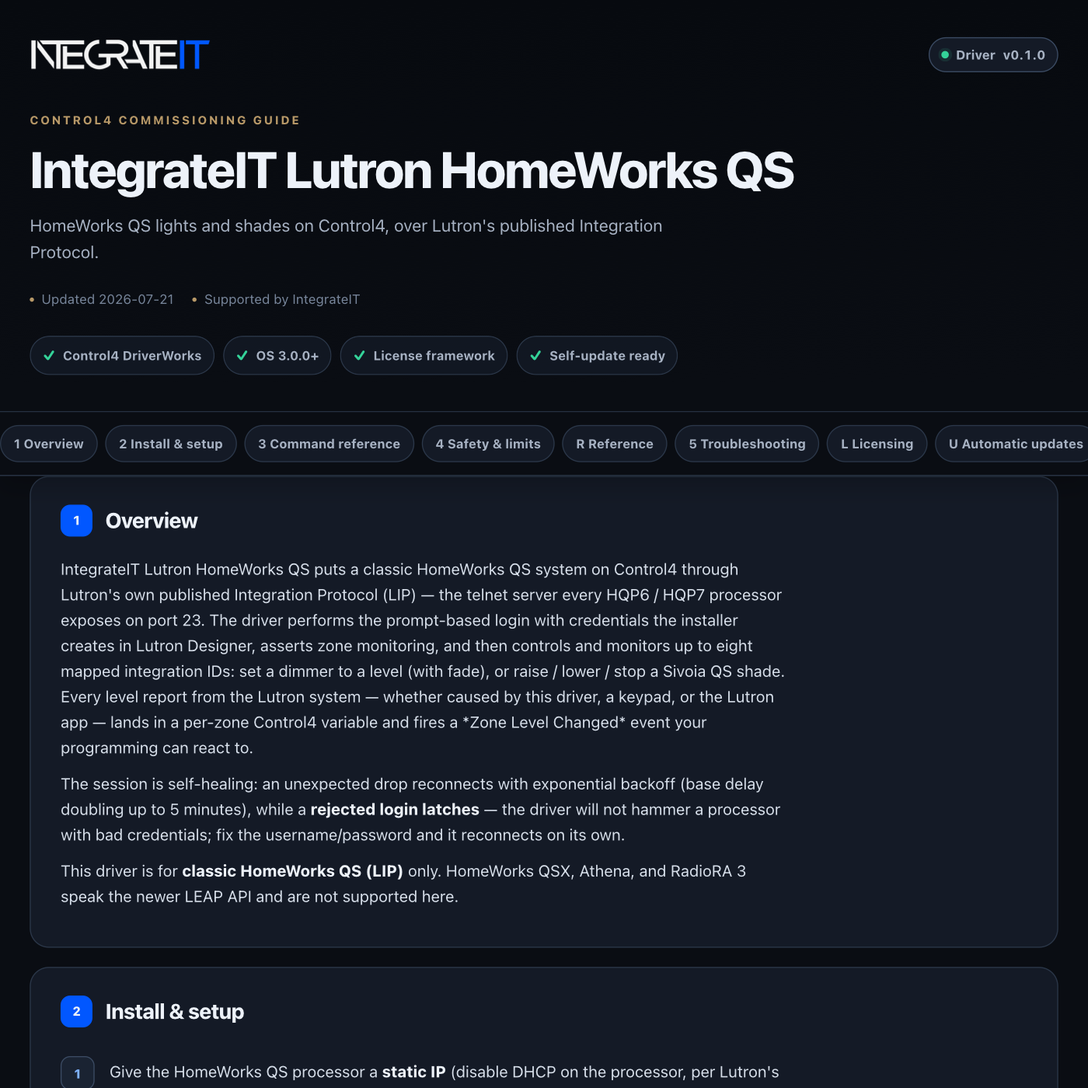
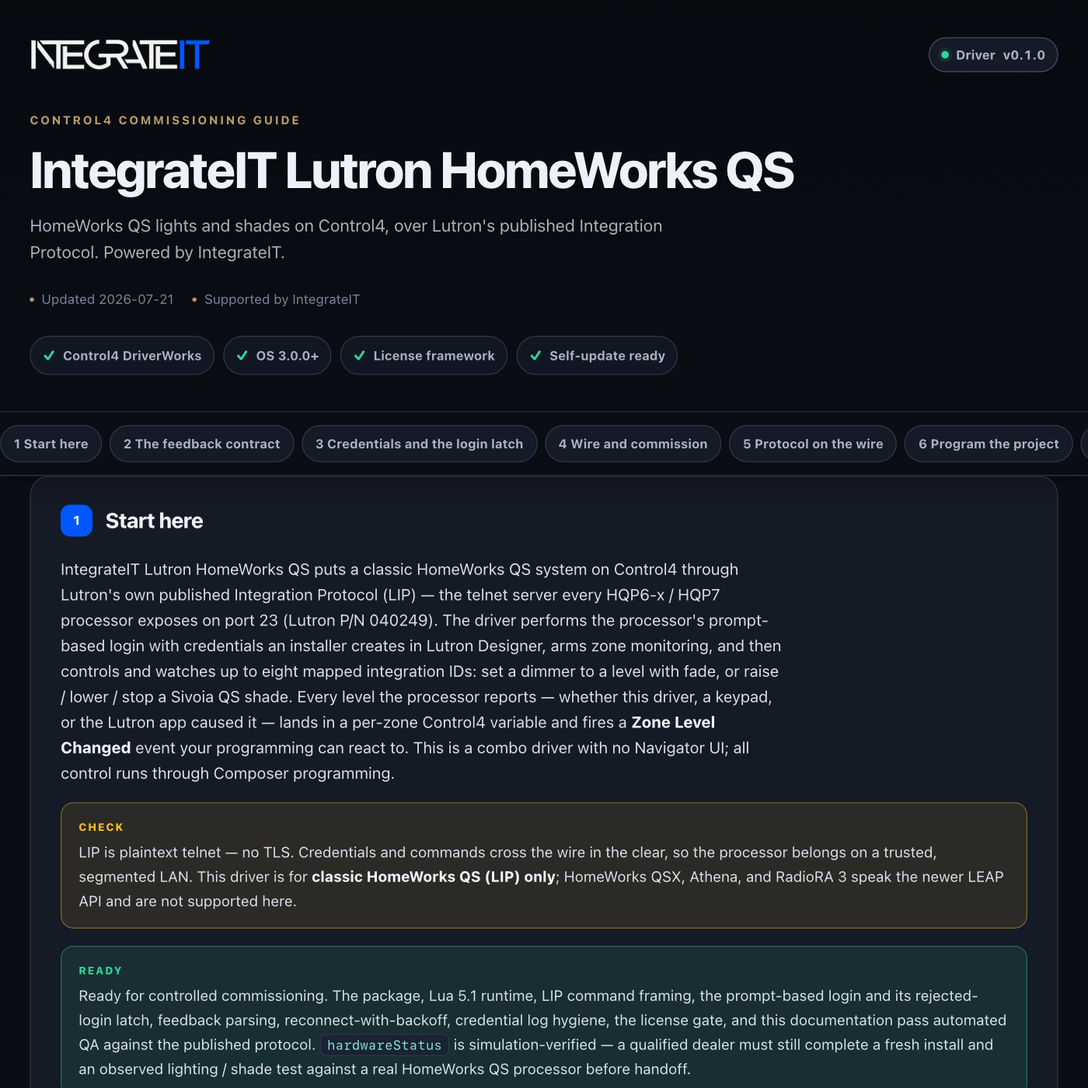
control4: publish driver channel (integrateit_lutron_homeworks 0.1.1)

diff --git a/control4/integrateit_lutron_homeworks/documentation.html b/control4/integrateit_lutron_homeworks/documentation.html
@@ -179,13 +179,13 @@ td code{white-space:normal}
     <div class="wrap">
       <div class="brandbar">
[1 lines of base64/hex data omitted]
-        <span class="version"><span class="word">Driver</span> v0.1.0</span>
+        <span class="version"><span class="word">Driver</span> v0.1.1</span>
       </div>
       <p class="eyebrow">Control4 commissioning guide</p>
       <h1>IntegrateIT Lutron HomeWorks QS</h1>
-      <p class="sub">HomeWorks QS lights and shades on Control4, over Lutron's published Integration Protocol.</p>
+      <p class="sub">HomeWorks QS lights and shades on Control4, over Lutron's published Integration Protocol. Powered by IntegrateIT.</p>
       <div class="meta">
-        <span>Updated 2026-07-21</span>
+        <span>Updated 2026-07-26</span>
         <span>Supported by IntegrateIT</span>
       </div>
       <div class="readiness" aria-label="Driver capabilities">
@@ -198,57 +198,147 @@ td code{white-space:normal}
   </header>
 
   <div class="toc-wrap">
-    <nav class="toc wrap" aria-label="Documentation sections"><a href="#overview">1 Overview</a><a href="#install">2 Install &amp; setup</a><a href="#commands">3 Command reference</a><a href="#safety">4 Safety &amp; limits</a><a href="#reference">R Reference</a><a href="#troubleshooting">5 Troubleshooting</a><a href="#licensing">L Licensing</a><a href="#updates">U Automatic updates</a><a href="#changelog">V Version history</a></nav>
+    <nav class="toc wrap" aria-label="Documentation sections"><a href="#overview">1 Start here</a><a href="#feedback">2 The feedback contract</a><a href="#login">3 Credentials and the login latch</a><a href="#setup">4 Wire and commission</a><a href="#protocol">5 Protocol on the wire</a><a href="#programming">6 Program the project</a><a href="#status">7 Read status at a glance</a><a href="#troubleshooting">8 Troubleshoot methodically</a><a href="#trust">9 Ownership, privacy, and licensing</a><a href="#reference">R Reference</a><a href="#licensing">L Licensing</a><a href="#updates">U Automatic updates</a><a href="#changelog">V Version history</a></nav>
   </div>
 
   <main class="wrap">
     <section class="card" id="overview" data-card="overview">
-  <h2><span class="n">1</span> Overview</h2>
-  <p>IntegrateIT Lutron HomeWorks QS puts a classic HomeWorks QS system on Control4 through Lutron's own published Integration Protocol (LIP) — the telnet server every HQP6 / HQP7 processor exposes on port 23. The driver performs the prompt-based login with credentials the installer creates in Lutron Designer, asserts zone monitoring, and then controls and monitors up to eight mapped integration IDs: set a dimmer to a level (with fade), or raise / lower / stop a Sivoia QS shade. Every level report from the Lutron system — whether caused by this driver, a keypad, or the Lutron app — lands in a per-zone Control4 variable and fires a *Zone Level Changed* event your programming can react to.</p>
-  <p>The session is self-healing: an unexpected drop reconnects with exponential backoff (base delay doubling up to 5 minutes), while a <b>rejected login latches</b> — the driver will not hammer a processor with bad credentials; fix the username/password and it reconnects on its own.</p>
-  <p>This driver is for <b>classic HomeWorks QS (LIP)</b> only. HomeWorks QSX, Athena, and RadioRA 3 speak the newer LEAP API and are not supported here.</p>
-</section>
-
-<section class="card" id="install" data-card="install">
-  <h2><span class="n">2</span> Install &amp; setup</h2>
-  <ol class="steps">
-    <li>Give the HomeWorks QS processor a <b>static IP</b> (disable DHCP on the processor, per Lutron's own integration guidance).</li>
-    <li>In <b>Lutron Designer</b>: *Tools &gt; Configure Integration &gt; Telnet Logins* — create a login for this driver. Then open the <b>Integration Report</b> and note the numeric <b>Integration ID</b> of each output (dimmer zone or shade) you want on Control4.</li>
-    <li>Add this driver to the project. Set <code>Processor IP Address</code>, <code>Telnet Username</code>, and <code>Telnet Password</code> (<code>Telnet Port</code> stays 23).</li>
-    <li>Map up to eight outputs: <code>Zone N Integration ID</code> (from the Integration Report) and an optional <code>Zone N Label</code>.</li>
-    <li>Watch <code>Connection Status</code> reach <b>Online (logged in)</b> — the driver queries every mapped zone at login, so <code>Zone Levels</code> and the <code>ZONE_N_LEVEL</code> variables go live immediately.</li>
-    <li>In Programming, drive zones with <b>Set Zone Level</b> (params <code>ZONE</code> 1-8, <code>LEVEL</code> 0-100), <b>Raise Zone</b>, <b>Lower Zone</b>, <b>Stop Zone</b> (param <code>ZONE</code>), and react to *Zone Level Changed* using <code>LAST_ZONE</code> / <code>LAST_ZONE_LEVEL</code>.</li>
-    <li>Optionally enter a <code>License Key</code> (see Licensing) — the driver runs in Lenient mode without one.</li>
-  </ol>
-</section>
-
-<section class="card" id="commands" data-card="commands">
-  <h2><span class="n">3</span> Command reference</h2>
-  <table>
-    <tr><th>Command</th><th>What it does</th></tr>
-    <tr><td>Set Zone Level</td><td><code>#OUTPUT,&lt;id&gt;,1,&lt;level&gt;,&lt;fade&gt;</code> — dimmer level or shade lift %, 0-100. Fade comes from <code>Dimmer Fade (s)</code> and is ignored by shades.</td></tr>
-    <tr><td>Raise Zone / Lower Zone / Stop Zone</td><td>LIP actions 2 / 3 / 4 — start motion, then stop it where it is. The shade-natural verbs; they also ramp dimmers.</td></tr>
-    <tr><td>Query Zone Level</td><td><code>?OUTPUT,&lt;id&gt;,1</code> — the reply updates the zone variable like any monitored report.</td></tr>
-    <tr><td>Send LIP Command</td><td>One raw LIP line for anything this driver doesn't wrap yet (scenes via <code>#AREA</code>, shade groups via <code>#SHADEGRP</code>, …). Must start with <code>#</code> or <code>?</code>; system-level verbs are refused.</td></tr>
-    <tr><td>Connect / Disconnect / Query All Zones / Print Configuration</td><td>Session management from the Actions tab.</td></tr>
-  </table>
-  <p>Commands issued while the session is still logging in are queued (bounded) and flush the moment login completes.</p>
-  <p><b>Events:</b> *Connected*, *Disconnected*, *Login Failed*, *Connection Failed*, *Zone Level Changed*, *Protocol Error*. <b>Variables:</b> <code>DEVICE_ONLINE</code>, <code>ZONE_1_LEVEL</code> … <code>ZONE_8_LEVEL</code> (−1 until known), <code>LAST_ZONE</code>, <code>LAST_ZONE_LEVEL</code>.</p>
-</section>
-
-<section class="card" id="safety" data-card="safety">
-  <h2><span class="n">4</span> Safety &amp; limits</h2>
+  <h2><span class="n">1</span> Start here</h2>
+  <p>IntegrateIT Lutron HomeWorks QS puts a classic HomeWorks QS system on Control4 through Lutron's own published Integration Protocol (LIP) — the telnet server every HQP6-x / HQP7 processor exposes on port 23 (Lutron P/N 040249). The driver performs the processor's prompt-based login with credentials an installer creates in Lutron Designer, arms zone monitoring, and then controls and watches up to eight mapped integration IDs: set a dimmer to a level with fade, or raise / lower / stop a Sivoia QS shade. Every level the processor reports — whether this driver, a keypad, or the Lutron app caused it — lands in a per-zone Control4 variable and fires a <b>Zone Level Changed</b> event your programming can react to. This is a combo driver with no Navigator UI; all control runs through Composer programming.</p>
+  <div class="note warn">LIP is plaintext telnet — no TLS. Credentials and commands cross the wire in the clear, so the processor belongs on a trusted, segmented LAN. This driver is for <b>classic HomeWorks QS (LIP) only</b>; HomeWorks QSX, Athena, and RadioRA 3 speak the newer LEAP API and are not supported here.</div>
+  <div class="note good">Ready for controlled commissioning. The package, Lua 5.1 runtime, LIP command framing, the prompt-based login and its rejected-login latch, feedback parsing, reconnect-with-backoff, credential log hygiene, the license gate, and this documentation pass automated QA against the published protocol. <code>hardwareStatus</code> is simulation-verified — a qualified dealer must still complete a fresh install and an observed lighting / shade test against a real HomeWorks QS processor before handoff.</div>
+  <p><b>What you get</b></p>
   <ul>
-    <li><b>Telnet is plaintext.</b> LIP has no TLS — credentials and commands cross the wire in the clear. Keep the processor on a trusted LAN segment; the driver refuses URLs and IPv6 literals as targets.</li>
-    <li><b>Credentials stay out of the log.</b> The password is never printed, never stored in a variable, and never appears in debug output — even with <code>Debug Mode = Print</code>.</li>
-    <li><b>A failed login latches.</b> After a re-prompt or an explicit rejection the driver stops trying, fires *Login Failed*, and waits for you to change the credentials (or press <b>Connect</b>). No lockout-inducing retry storms.</li>
-    <li><b>System-level LIP verbs are blocked</b> on the raw escape hatch: <code>#ETHERNET</code>, <code>#RESET</code>, <code>#PASSWD</code>, <code>#INTEGRATIONID</code>, <code>#MONITORING</code> cannot be sent from programming.</li>
-    <li><b>Shades run at fixed speeds.</b> Lutron documents fade/delay as having no effect on shades — <code>Dimmer Fade (s)</code> only shapes dimmers.</li>
-    <li><b>Level reports are rounded</b> to whole percent (LIP reports like <code>75.00</code>).</li>
+    <li>Two-way control of up to eight OUTPUT integration IDs: dimmer level 0-100 with optional fade, and raise / lower / stop for Sivoia QS shades</li>
+    <li>Live level feedback via zone monitoring: per-zone <code>ZONE_N_LEVEL</code> variables, a rolled-up <code>Zone Levels</code> readout, and a <b>Zone Level Changed</b> event on every reported change</li>
+    <li>Prompt-based telnet login with installer-provisioned credentials; a rejected login <b>latches</b> instead of hammering the processor</li>
+    <li>Reconnect with exponential backoff, a bounded pre-login command queue, and connect / login watchdogs</li>
+    <li>A guarded raw-LIP escape hatch for scenes, shade groups, and anything not yet wrapped — system-level verbs refused</li>
+    <li><code>~ERROR</code> replies decoded into a <b>Protocol Error</b> event with the documented reason</li>
+    <li>Passwords never written to the Control4 log, even in Debug Mode</li>
+    <li>MAC-locked IntegrateIT licensing with Lenient or Strict enforcement</li>
   </ul>
+</section>
+
+<section class="card" id="feedback" data-card="feedback">
+  <h2><span class="n">2</span> The feedback contract</h2>
+  <p>This driver never invents a level. Every zone value comes from what the processor actually reports:</p>
+  <ul>
+    <li><code>~OUTPUT,&lt;id&gt;,1,&lt;level&gt;</code> — an output level report, solicited (a query) or pushed (monitoring). The driver rounds it to whole percent (<code>75.00</code> → <code>75</code>), clamps it to 0-100, stores it against the mapped slot, and updates <code>ZONE_N_LEVEL</code> plus the <code>Zone Levels</code> readout.</li>
+    <li>A level that actually differs from the last one sets <code>LAST_ZONE</code> / <code>LAST_ZONE_LEVEL</code> and fires <b>Zone Level Changed</b>. An identical repeat re-writes the same value, leaves <code>LAST_ZONE</code> / <code>LAST_ZONE_LEVEL</code> untouched, and fires nothing — a repeat is not a change.</li>
+    <li>Until a zone has reported, its <code>ZONE_N_LEVEL</code> is <code>-1</code> (unknown) and its entry in <code>Zone Levels</code> shows <code>—</code>. Nothing is assumed at boot; nothing that happened while the driver was offline is observable.</li>
+    <li>At login the driver asserts zone monitoring (<code>#MONITORING,5,1</code>) and then queries every mapped zone (<code>?OUTPUT,&lt;id&gt;,1</code>) so the variables are honest from the first moment. A reconnect re-arms and re-primes the same way.</li>
+    <li>Remapping a <b>Zone N Integration ID</b> forgets that slot's old level (back to <code>-1</code>) and, if logged in, immediately re-queries the new ID — the old device's level means nothing on the new one.</li>
+  </ul>
+  <p>Reports for an integration ID that no slot is mapped to are ignored. This is a level-reporting protocol, not a scene-state one: the driver knows output levels, not which keypad button lit.</p>
+</section>
+
+<section class="card" id="login" data-card="login">
+  <h2><span class="n">3</span> Credentials and the login latch</h2>
+  <p>The processor speaks first. It prints <code>login:</code> (with no line terminator), then <code>password:</code> when a passphrase is set, then a session prompt (<code>QNET&gt;</code>, <code>QSE&gt;</code>, …) once it accepts you. The driver answers each prompt from the <b>Telnet Username</b> and <b>Telnet Password</b> an installer created in Lutron Designer, and treats the session prompt as proof of login.</p>
+  <ul>
+    <li><b>Credentials never reach the log.</b> The username and password go out through a send path that logs nothing about the payload — not its value, not its length. Even with <b>Debug Mode</b> = <code>Print</code>, the wire trace shows <code>TX (credential)</code>, never the secret. <b>Print Configuration</b> reports only whether a password is set, never the password itself.</li>
+    <li><b>A rejected login latches.</b> If the processor re-prompts <code>login:</code> or <code>password:</code> after the driver already answered — or replies "bad login" / "login incorrect" / "access denied", or there is no <b>Telnet Username</b> to offer — the driver fires <b>Login Failed</b>, sets <code>Connection Status</code> to "Login failed — check Telnet Username / Password", and stops. It does not resend a known-bad password and does not retry on a timer — no credential hammering, so this driver can never be what locks a Lutron telnet account out.</li>
+    <li><b>The latch clears on your action, not on its own.</b> Editing <b>Processor IP Address</b>, <b>Telnet Port</b>, <b>Telnet Username</b>, or <b>Telnet Password</b> clears the latch (and resets the backoff) and reconnects; pressing <b>Connect</b> clears it too.</li>
+  </ul>
+</section>
+
+<section class="card" id="setup" data-card="setup">
+  <h2><span class="n">4</span> Wire and commission</h2>
+  <ol class="steps">
+    <li>Give the HomeWorks QS processor a <b>static IP</b> (disable DHCP on the processor, per Lutron's integration guidance), reachable from the controller's LAN.</li>
+    <li>In <b>Lutron Designer</b>: *Tools &gt; Configure Integration &gt; Telnet Logins* — create a login for this driver. Then open the <b>Integration Report</b> and note the numeric <b>Integration ID</b> of each OUTPUT (dimmer or shade) you want on Control4.</li>
+    <li>Add <b>IntegrateIT Lutron HomeWorks QS</b> to the project. Set <b>Processor IP Address</b>, <b>Telnet Username</b>, and <b>Telnet Password</b>. Leave <b>Telnet Port</b> at 23 unless a gateway remaps it.</li>
+    <li>Map up to eight outputs: <b>Zone N Integration ID</b> (from the Integration Report) plus an optional <b>Zone N Label</b>. Blank slots are ignored.</li>
+    <li>Watch <b>Connection Status</b> walk from "Connecting to …" through "Logging in…" to <b>Online (logged in)</b>. The driver arms zone monitoring and queries every mapped zone at login, so <code>Zone Levels</code> and the <code>ZONE_N_LEVEL</code> variables fill in within moments.</li>
+    <li>From the <b>Actions</b> tab run <b>Query All Zones</b> and watch <code>Zone Levels</code> populate. Then, from <b>Programming</b>, execute <b>Set Zone Level</b> (ZONE 1, LEVEL 50) and <b>Raise Zone</b> / <b>Stop Zone</b> against a mapped slot — these are programming commands, not Actions-tab buttons. The reported level moving in <code>Zone Levels</code> is the proof that the login, zone monitoring, and integration IDs are all correct.</li>
+    <li>Optionally enter a <b>License Key</b> — the driver runs in Lenient mode without one (see licensing below).</li>
+  </ol>
+  <div class="note">Integration IDs and telnet logins live in the Lutron system, not in this driver — it discovers neither. Copy the IDs from the Integration Report and create the login in Designer.</div>
+</section>
+
+<section class="card" id="protocol" data-card="protocol">
+  <h2><span class="n">5</span> Protocol on the wire</h2>
+  <p>Every line is plain ASCII, comma-delimited, <code>&lt;CR&gt;&lt;LF&gt;</code>-terminated. Examples exactly as this driver transmits and parses them:</p>
+  <table>
+    <tr><th>Wire line</th><th>Meaning</th></tr>
+    <tr><td><code>#OUTPUT,6,1,75,2</code></td><td>Set integration ID 6 to 75% over a 2 s fade (fade from <b>Dimmer Fade (s)</b>; shades ignore it)</td></tr>
+    <tr><td><code>#OUTPUT,21,2</code> / <code>,3</code> / <code>,4</code></td><td>Start raising / start lowering / stop — LIP actions 2 / 3 / 4</td></tr>
+    <tr><td><code>?OUTPUT,6,1</code></td><td>Query the current level of integration ID 6</td></tr>
+    <tr><td><code>~OUTPUT,6,1,75.00</code></td><td>A level report the driver rounds and stores</td></tr>
+    <tr><td><code>#MONITORING,5,1</code></td><td>Zone monitoring, asserted at every login</td></tr>
+    <tr><td><code>~ERROR,2</code></td><td>The processor rejected a command (see below)</td></tr>
+  </table>
+  <p><b>Set Zone Level</b> clamps <b>LEVEL</b> to 0-100 before it reaches the wire; a <b>ZONE</b> outside 1-8, or one with no Integration ID, is refused with a status message and nothing transmits. Commands issued before login are queued in order (bounded at 32 lines; the oldest is dropped if it overflows) and flush the instant login completes.</p>
+  <p><code>~ERROR,&lt;n&gt;</code> replies decode to a <b>Protocol Error</b> event and a <code>Status</code> line reading "Processor error: …": 1 parameter count mismatch, 2 object does not exist, 3 invalid action number, 4 parameter data out of range, 5 parameter data malformed, 6 unsupported command. <code>~ERROR,2</code> almost always means a wrong <b>Zone N Integration ID</b>.</p>
+  <p><b>Send LIP Command</b> is the escape hatch for anything not wrapped yet — scenes via <code>#AREA</code>, shade groups via <code>#SHADEGRP</code>, and so on. The line must start with <code>#</code> or <code>?</code>, run no longer than 128 characters, and carry no control characters. Five system-level verbs are refused outright — <code>#ETHERNET</code>, <code>#RESET</code>, <code>#PASSWD</code>, <code>#INTEGRATIONID</code>, <code>#MONITORING</code> — so programming can never reboot, re-address, or re-credential the processor.</p>
+</section>
+
+<section class="card" id="programming" data-card="programming">
+  <h2><span class="n">6</span> Program the project</h2>
+  <p>Control is entirely through Composer (this is a combo driver, no Navigator UI). Commands take simple parameters; feedback arrives as events and variables.</p>
+  <table>
+    <tr><th>Command</th><th>Parameters</th><th>Sends</th></tr>
+    <tr><td><b>Set Zone Level</b></td><td><code>ZONE</code> 1-8, <code>LEVEL</code> 0-100</td><td><code>#OUTPUT,&lt;id&gt;,1,&lt;level&gt;,&lt;fade&gt;</code></td></tr>
+    <tr><td><b>Raise / Lower / Stop Zone</b></td><td><code>ZONE</code> 1-8</td><td><code>#OUTPUT,&lt;id&gt;,2 / 3 / 4</code></td></tr>
+    <tr><td><b>Query Zone Level</b></td><td><code>ZONE</code> 1-8</td><td><code>?OUTPUT,&lt;id&gt;,1</code></td></tr>
+    <tr><td><b>Send LIP Command</b></td><td><code>COMMAND</code> (starts with <code>#</code> or <code>?</code>)</td><td>the raw line, guarded</td></tr>
+  </table>
+  <table>
+    <tr><th>Variable</th><th>Type</th><th>Meaning</th></tr>
+    <tr><td><code>DEVICE_ONLINE</code></td><td>BOOL</td><td>True only when logged in and integration is live</td></tr>
+    <tr><td><code>ZONE_1_LEVEL</code> … <code>ZONE_8_LEVEL</code></td><td>NUMBER</td><td>Last reported level per slot; <code>-1</code> until known</td></tr>
+    <tr><td><code>LAST_ZONE</code></td><td>NUMBER</td><td>Slot (1-8) of the most recent level change; <code>0</code> until one happens</td></tr>
+    <tr><td><code>LAST_ZONE_LEVEL</code></td><td>NUMBER</td><td>Level that accompanied that change; <code>-1</code> until one happens</td></tr>
+  </table>
+  <p><b>Connect</b>, <b>Disconnect</b>, <b>Query All Zones</b>, and <b>Print Configuration</b> are Actions-tab buttons; everything in the command table above is Composer programming only.</p>
+  <p>Three ways these wire into programming:</p>
+  <ul>
+    <li><b>When a keypad or the Lutron app dims zone 3 → mirror it in Control4.</b> Bind <b>Zone Level Changed</b>, confirm <code>LAST_ZONE</code> is 3, and drive a matching scene from <code>LAST_ZONE_LEVEL</code>. Feedback events react to what the lights actually did, never to what was merely commanded.</li>
+    <li><b>When your Good Night scene runs → Set Zone Level, ZONE 1, LEVEL 0</b>, then the same for each mapped zone — or one <b>Send LIP Command</b> with an <code>#AREA</code> scene line to clear a whole area at once.</li>
+    <li><b>When a shade should close at sunset → Lower Zone, then Stop Zone</b> at the travel time; or <b>Set Zone Level</b> with a lift percentage for a QS shade that honors levels.</li>
+  </ul>
+  <p>Control commands are license-gated: under Strict enforcement an unlicensed controller opens no socket and transmits nothing — so there is no feedback either, because feedback needs a session. Once a key validates, the driver does not reconnect on its own: run the <b>Connect</b> action (or issue any command, which brings the session up) and feedback comes back with it. Lenient mode (the default) allows full commissioning and keeps the license nag visible.</p>
+</section>
+
+<section class="card" id="status" data-card="status">
+  <h2><span class="n">7</span> Read status at a glance</h2>
+  <p><code>Connection Status</code> holds exactly six shapes: <b>Not connected</b> (idle, disconnected, or torn down), <b>Connecting to <code>&lt;ip&gt;</code>:<code>&lt;port&gt;</code>…</b> (socket attempt in flight), <b>Logging in…</b> (socket up, prompt handshake running), <b>Online (logged in)</b> (the only healthy resting state), <b>Login failed — check Telnet Username / Password</b> (the latch is set), and <b>Blocked: <code>&lt;reason&gt;</code></b> (the destination was refused before any socket opened).</p>
+  <table>
+    <tr><th>Property</th><th>Healthy result</th><th>What to do otherwise</th></tr>
+    <tr><td><code>Connection Status</code></td><td>Online (logged in)</td><td>Stuck "Connecting to …": check IP / port and the LAN. Stuck "Logging in…": the processor never finished the prompt handshake — the 15 s watchdog retries. "Login failed": fix credentials. "Blocked": read the reason.</td></tr>
+    <tr><td><code>Zone Levels</code></td><td><code>Z1:75  Z3:12</code> for mapped zones</td><td><code>—</code> for a zone means it has not reported — run <b>Query All Zones</b></td></tr>
+    <tr><td><code>DEVICE_ONLINE</code></td><td><code>1</code> when logged in</td><td><code>0</code> means socket-down or still logging in — gate automation on it</td></tr>
+    <tr><td><code>ZONE_N_LEVEL</code></td><td>0-100 for a known zone</td><td><code>-1</code> = never reported; check the Integration ID and watch Debug for the <code>~OUTPUT</code> reply</td></tr>
+    <tr><td><code>License Status</code></td><td>Licensed to this controller, or Lenient during commissioning</td><td>Enter a <b>License Key</b> before selecting Strict enforcement</td></tr>
+  </table>
+  <p><b>Print Configuration</b> writes the processor target, the login name, whether a password is set, the live session state, the failed-login latch flag, the backoff counters, and every mapped zone with its last level to the Lua output window. It never prints the password or the license key.</p>
+</section>
+
+<section class="card" id="troubleshooting" data-card="troubleshooting">
+  <h2><span class="n">8</span> Troubleshoot methodically</h2>
+  <table>
+    <tr><th>Symptom</th><th>Likely cause</th><th>Fix</th></tr>
+    <tr><td><code>Connection Status</code> stuck on "Connecting to …"</td><td>Wrong IP, processor offline, or a firewall on port 23</td><td><code>nc &lt;processor-ip&gt; 23</code> from a laptop on the same LAN — you should see a <code>login:</code> prompt</td></tr>
+    <tr><td>"Login failed — check Telnet Username / Password"</td><td>Credentials don't match a Telnet Login in Designer (the latch is set)</td><td>Re-create the login in *Tools &gt; Configure Integration &gt; Telnet Logins* and re-enter it — any credential edit clears the latch</td></tr>
+    <tr><td><code>Connection Status</code> shows "Blocked: …"</td><td>The Processor IP is empty, a URL, or an IPv6 literal</td><td>Enter a bare LAN IPv4 host in <b>Processor IP Address</b></td></tr>
+    <tr><td>A zone stays at <code>-1</code> / <code>Zone Levels</code> shows <code>—</code></td><td>Wrong Integration ID, or the query never got an answer</td><td>Verify the OUTPUT id in the Integration Report, run <b>Query All Zones</b>, and watch Debug: a <code>~OUTPUT</code> reply means it works, a <code>~ERROR,2</code> means that ID is not in the system</td></tr>
+    <tr><td>Levels only move when this driver commands them</td><td>Zone monitoring is not in effect for this session</td><td>The driver asserts <code>#MONITORING,5,1</code> at every login — check Debug for a <code>~ERROR</code> on the line right after login, and re-create the telnet login in Designer if it cannot arm monitoring</td></tr>
+    <tr><td><code>Status</code> shows "Processor error: object does not exist"</td><td>An Integration ID not present in the system (<code>~ERROR,2</code>)</td><td>Correct the matching <b>Zone N Integration ID</b></td></tr>
+    <tr><td>Commands do nothing, no traffic at all</td><td>Strict licensing without a validated key</td><td>Enter a <b>License Key</b>, or use Lenient mode during commissioning</td></tr>
+  </table>
+  <div class="note">Turn <b>Debug Mode</b> → <code>Print</code> to watch the LIP conversation (TX / RX lines, credentials redacted) in the Lua output window.</div>
+  <p>If a symptom survives every check, run <b>Print Configuration</b>, capture the Lua output window, and send it to support@integrateit.tech · (913) 804-7575.</p>
+</section>
+
+<section class="card" id="trust" data-card="trust">
+  <h2><span class="n">9</span> Ownership, privacy, and licensing</h2>
+  <p>This package is an original IntegrateIT implementation of Lutron's published Integration Protocol (P/N 040249 — a document Lutron publishes so external equipment can drive its systems). It bundles no other vendor's runtime, source code, brand assets, trial system, or license. Lutron, HomeWorks, Sivoia, and QS are trademarks of Lutron Electronics Co., Inc.; IntegrateIT is not affiliated with Lutron, and this driver is not a Lutron product. Driver engineering, Control4 integration, documentation, QA, licensing, updates, and support are provided by IntegrateIT.</p>
+  <p>The driver talks to your HomeWorks QS processor on the LAN and to nowhere else. LIP is plaintext with no encryption, so physical and network access to the processor is the whole security model of this integration path — one more reason to keep it on a trusted, segmented VLAN. The <b>Telnet Username</b> and <b>Telnet Password</b> live only in the driver's properties, travel only to the processor, and are never written to the Control4 log or into any variable. The shared IntegrateIT license and update services use the controller identity, driver slug, version, configured license key, and update channel as documented in the reference below.</p>
+  <p>Lenient mode allows commissioning without an activated key and keeps <code>License Status</code> visible. Strict mode opens no telnet socket and blocks all control until the Ops Portal has minted and validated a key for that controller — with no socket there is no feedback either. Validating a key does not itself reconnect: run <b>Connect</b> (or issue any command) and the session, with its feedback, comes back. Installing this package does not itself mint or activate a controller license.</p>
 <section class="card" id="reference" data-card="reference">
   <h2><span class="n">R</span> Reference</h2>
-  <p>Generated from the driver manifest at build time — always matches this build (v0.1.0).</p>
+  <p>Generated from the driver manifest at build time — always matches this build (v0.1.1).</p>
   <h3>Properties</h3>
   <table>
     <tr><th>Property</th><th>Type</th><th>Default</th><th>Description</th></tr>
@@ -327,19 +417,6 @@ td code{white-space:normal}
   </table>
 </section>
 </section>
-
-<section class="card" id="troubleshooting" data-card="troubleshooting">
-  <h2><span class="n">5</span> Troubleshooting</h2>
-  <table>
-    <tr><th>Symptom</th><th>Likely cause</th><th>Fix</th></tr>
-    <tr><td><code>Connection Status</code> stuck on "Connecting…"</td><td>Wrong IP, processor offline, or a firewall on port 23</td><td><code>nc &lt;processor-ip&gt; 23</code> from a laptop on the same LAN — you should see a <code>login:</code> prompt.</td></tr>
-    <tr><td>"Login failed — check Telnet Username / Password"</td><td>Credentials don't match a Telnet Login in Lutron Designer</td><td>Re-create the login in *Tools &gt; Configure Integration &gt; Telnet Logins*, re-enter it here (any credential edit clears the latch).</td></tr>
-    <tr><td>Zone variable stays at −1</td><td>Wrong Integration ID, or integration not enabled for that output</td><td>Check the Integration Report in Designer; IDs must be the numeric OUTPUT ids. Fire <b>Query All Zones</b> to re-prime.</td></tr>
-    <tr><td>Levels only update when this driver moves them</td><td>Zone monitoring disabled for this login</td><td>The driver asserts <code>#MONITORING,5,1</code> at login; if a <code>~ERROR</code> follows it, review the login's monitoring permissions in Designer.</td></tr>
-    <tr><td><code>Status</code> shows "Processor error: object does not exist"</td><td>An Integration ID that isn't in the system</td><td>Fix the <code>Zone N Integration ID</code> — the processor answered <code>~ERROR,2</code>.</td></tr>
-  </table>
-  <div class="note">Turn on <code>Debug Mode → Print</code> to watch the LIP conversation (TX/RX lines; credentials redacted) in the Lua output window.</div>
-</section>
 <section class="card" id="licensing" data-card="licensing">
   <h2><span class="n">L</span> Licensing</h2>
   <p>This driver is licensed <b>per controller</b>. Each license key locks to one controller's
@@ -387,7 +464,9 @@ td code{white-space:normal}
     <section class="card" id="changelog" data-card="changelog">
   <h2><span class="n">V</span> Version history</h2>
   <div class="chg">
-    <div class="rel"><b>v0.1.0</b> <span class="pill green">current</span><span class="d">2026-07-21</span>
+    <div class="rel"><b>v0.1.1</b> <span class="pill green">current</span><span class="d">2026-07-26</span>
+      <ul><li>Documentation rebuilt to the IntegrateIT commissioning-guide standard: uniform sections, honest contracts, verified claim-by-claim against the code.</li></ul></div>
+    <div class="rel"><b>v0.1.0</b><span class="d">2026-07-21</span>
       <ul><li>Initial release: Lutron Integration Protocol (LIP) telnet client for classic HomeWorks QS processors (HQP6-x / HQP7), built against Lutron's published protocol reference (P/N 040249).</li><li>Prompt-based telnet login (login: / password: / session prompt) with installer-provisioned credentials from Lutron Designer; a rejected login latches instead of retrying.</li><li>Control of up to 8 mapped OUTPUT integration IDs: Set Zone Level (action 1, with fade), Raise / Lower / Stop (actions 2 / 3 / 4).</li><li>Zone monitoring asserted at login (#MONITORING,5,1) plus a per-zone prime query; live per-zone level variables, LAST_ZONE / LAST_ZONE_LEVEL, and a Zone Level Changed event.</li><li>Reconnect with exponential backoff (base delay doubling to 5 min, reset on login); connect and login watchdogs; bounded pre-login command queue.</li><li>Guarded raw LIP escape hatch (system-level verbs refused); credentials never written to the Control4 log; ~ERROR replies decoded into a Protocol Error event.</li><li>Login hardening (pre-ship review): a password prompt that arrives AFTER the password was already answered is now treated as a rejection and latches — the same guarantee the "login:" re-prompt already gave — so a wrong password can never be resent in a loop that risks locking the Lutron telnet account.</li><li>Login hardening (pre-ship review): the unterminated-tail prompt detector now requires that authentication has begun before it accepts a "…&gt;" prompt as logged-in, matching the glued-prompt line path; a stray "&gt;"-terminated banner arriving before "login:" can no longer spoof a Connected session and then latch a false Login Failed when the genuine prompt arrives.</li></ul></div>
   </div>
 </section>

diff --git a/control4/integrateit_lutron_homeworks/CHANGELOG.md b/control4/integrateit_lutron_homeworks/CHANGELOG.md
@@ -1,5 +1,8 @@
 # Changelog — IntegrateIT Lutron HomeWorks QS
 
+## [0.1.1] - 2026-07-26
+- Documentation rebuilt to the IntegrateIT commissioning-guide standard: uniform sections, honest contracts, verified claim-by-claim against the code.
+
 ## [0.1.0] - 2026-07-21
 - Initial release: Lutron Integration Protocol (LIP) telnet client for classic HomeWorks QS processors (HQP6-x / HQP7), built against Lutron's published protocol reference (P/N 040249).
 - Prompt-based telnet login (login: / password: / session prompt) with installer-provisioned credentials from Lutron Designer; a rejected login latches instead of retrying.
